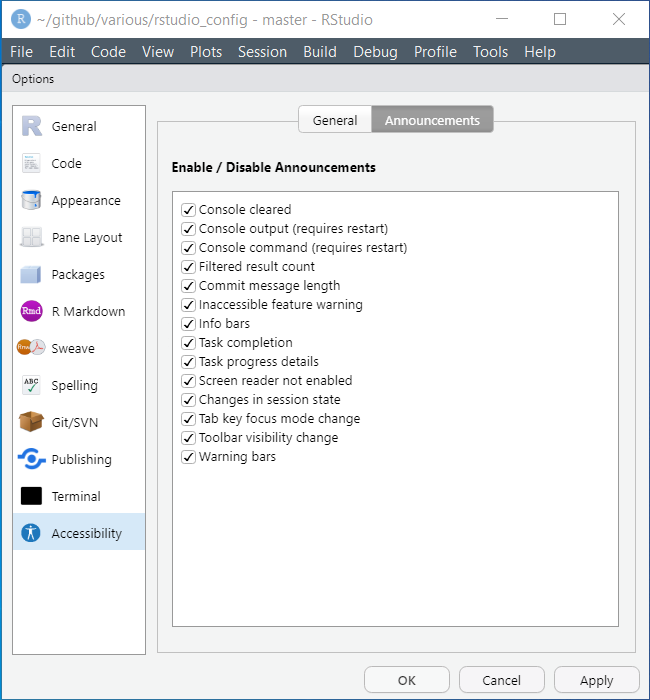
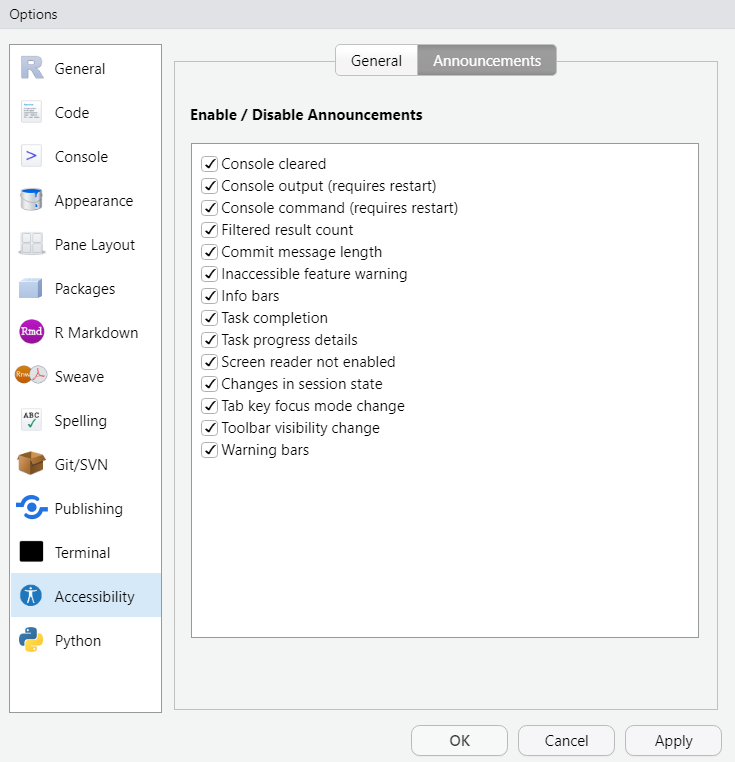
210514: updated pngs

diff --git a/README.md b/README.md
@@ -6,6 +6,7 @@ Screenshots of my preferred RStudio configuration.
 ## General
 
 ![Basic](img/rstudio_configuration_general_basic.PNG)
+![Graphics](img/rstudio_configuration_general_graphics.PNG)
 ![Advanced](img/rstudio_configuration_general_advanced.PNG)
 
 ## Code
@@ -31,7 +32,10 @@ Screenshots of my preferred RStudio configuration.
 
 ## R Markdown
 
-![Rmarkdown](img/rstudio_configuration_rmarkdown.PNG)
+![Basic](img/rstudio_configuration_rmarkdown_basic.PNG)
+![Advanced](img/rstudio_configuration_rmarkdown_advanced.PNG)
+![visual](img/rstudio_configuration_rmarkdown_visual.PNG)
+![Citations](img/rstudio_configuration_rmarkdown_citations.PNG)
 
 ## Sweave
 
@@ -59,10 +63,14 @@ Screenshots of my preferred RStudio configuration.
 ![General](img/rstudio_configuration_accessibility_general.PNG)
 ![Closing](img/rstudio_configuration_accessibility_announcements.PNG)
 
+## Python
+
+![Python](img/rstudio_configuration_python.PNG)
+
 ## Sources
 
-  - Document relies on this
+-   Document relies on this
     [post](https://drdoane.com/my-rstudio-configuration/) by William
     Diane.
-  - Details about the different options can be found
+-   Details about the different options can be found
     [here](https://support.rstudio.com/hc/en-us/articles/200549016-Customizing-RStudio).
